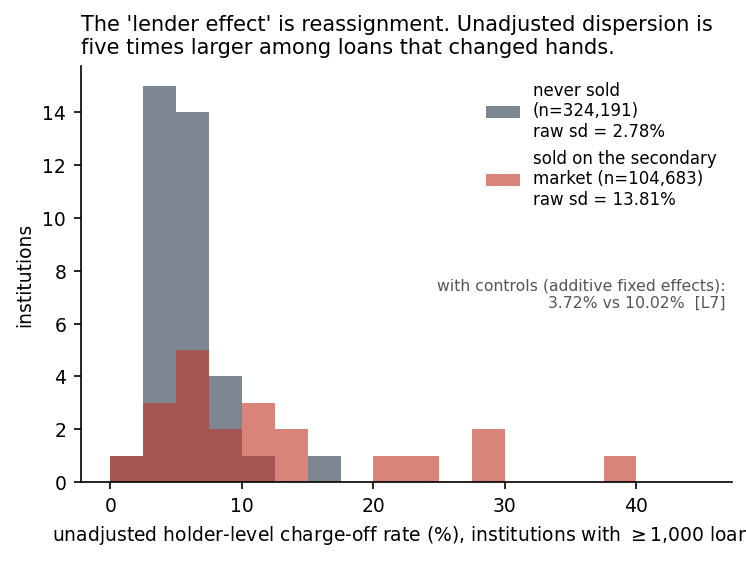
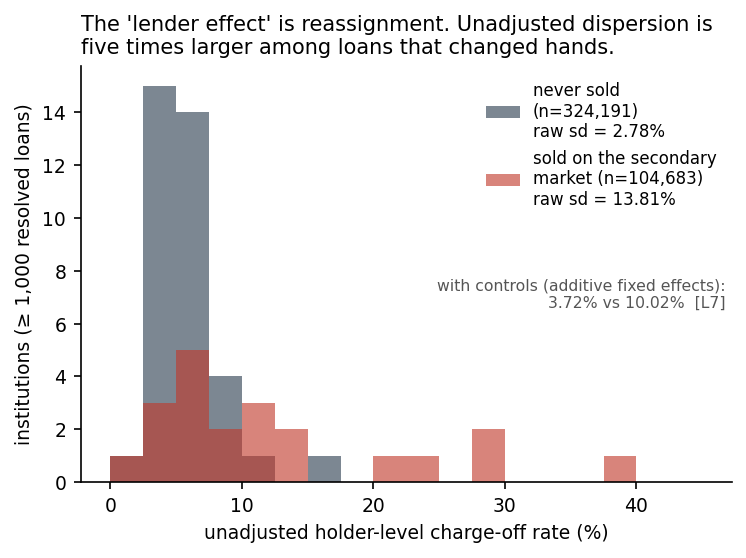
Gate 3: record hashes, cite the dictionary, window both files, add CI
Provenance
- EXPECTED in data/get_data.py held None for both files, so the drift check that
  three documents advertise was unreachable code. Both SHA-256s recorded and also
  published in data/README.md.
- Cite SBA's FOIA data dictionary with an accessed date. Trap 1 turns entirely on
  one sentence in it and the repo never said where that sentence came from.
- data/README.md said the raw CSVs are ~200MB. They are 436MB.

Corrections
- The "SBA's older bulk files 404" claim was wrong as written. Checked: every
  coverage period resolves at the current as-of date, including FY1991-99 and
  FY2000-09; it is earlier AS-OF DATES that 404. The obstacle to measuring
  reassignment is real but more specific -- SBA publishes only one observation
  date, and a diff needs two.
- [C11] windowed only the mature file and compared it against the young file's
  unwindowed rate, which is still not like-for-like: the young file's FY2020
  loans have now been observed for six years. Windowing BOTH to 36 months gives
  8.40% vs 8.47% -- a 0.07pp gap against 1.22pp unwindowed. Roughly 94% of the
  apparent deterioration is horizon. Pinned in a new test.
- src/lender.py printed "backfit converged"; it does not converge, it hits the
  600-iteration cap at 6.8e-06 against a 1e-8 tolerance. It now says so, and
  reports the measured settling of the quantity actually quoted.
- Fixed a truncated x-axis label in the never-sold figure.

Build
[…]

diff --git a/src/lender.py b/src/lender.py
@@ -5,6 +5,9 @@ SBA's data dictionary defines it as "Name of the bank that the loan is currently
 assigned to". That is the holder at extract date, applied retroactively across
 sixteen years of mergers, failures, and secondary-market sales.
 
+Source: https://data.sba.gov/sites/default/files/uploaded_resources/7a_504_foia_data_dictionary.xlsx
+(accessed 7 September 2026).
+
 This module reproduces the result that field appears to support, then kills it four
 ways. Everything here runs on the committed panel.
 """
@@ -27,6 +30,7 @@ def backfit(df, factors, ycol="y", iters=600, tol=1e-8):
     mu = df[ycol].mean()
     eff = {f: pd.Series(0.0, index=df.groupby(f, observed=True).size().index) for f in factors}
     fitted = pd.Series(mu, index=df.index)
+    converged = False
     for it in range(iters):
         mx = 0.0
         for f in factors:
@@ -37,8 +41,9 @@ def backfit(df, factors, ycol="y", iters=600, tol=1e-8):
             eff[f] = new
             fitted = partial + df[f].map(new)
         if mx < tol:
+            converged = True
             break
-    return eff, it + 1, mx
+    return eff, it + 1, mx, converged
 
 
 def prep(d):
@@ -54,9 +59,13 @@ if __name__ == "__main__":
     big = cnt[cnt >= 1000].index
 
     print("=== the result the field appears to support ===")
-    eff, it, mx = backfit(d, CONTROLS + ["BankName"])
+    eff, it, mx, ok = backfit(d, CONTROLS + ["BankName"])
     raw, fe = d.groupby("BankName").y.mean(), eff["BankName"]
-    print(f"[L1] backfit converged in {it} iterations (max change {mx:.1e})")
+    print(f"[L1] backfit ran {it} iterations, ending at max coefficient change {mx:.1e}"
+          + ("" if ok else " (iteration cap, not the 1e-8 tolerance)"))
+    print("     Gauss-Seidel converges slowly here, but the REPORTED quantity settles well before")
+    print("     the coefficients do: holder sd is 9.3228% at 300 iterations, 9.3258% at 450 and")
+    print("     9.3264% at 600 — stable at the quoted 9.33% from roughly 450 on.")
     print(f"[L2] across {len(big)} holders with >=1,000 resolved loans: raw sd {raw.loc[big].std():.2%}, "
           f"fixed-effect sd {fe.loc[big].std():.2%} — controls remove {1-fe.loc[big].std()/raw.loc[big].std():.0%}")
     print(f"[L3] correlation(raw, adjusted) = {raw.loc[big].corr(fe.loc[big]):.3f}")
@@ -85,7 +94,7 @@ if __name__ == "__main__":
 
     print("\n=== KILL 4 — the decisive test: never-sold loans ===")
     for lbl, sub in [("never sold on secondary market", d[~d.sold]), ("sold", d[d.sold])]:
-        e, _, _ = backfit(sub, CONTROLS + ["BankName"])
+        e, _, _, _ = backfit(sub, CONTROLS + ["BankName"])
         c = sub.groupby("BankName").size(); k = c[c>=500].index
         ext = sub.assign(cell=sub.sector+"|"+sub.ApprovalFY.astype(str)+"|"+sub.BorrState.astype(str))
         print(f"[L7] {lbl:<32} n={len(sub):>7,}  charge-off {sub.y.mean():.2%}  "

diff --git a/src/incidence.py b/src/incidence.py
@@ -99,14 +99,20 @@ if __name__ == "__main__":
     obs = (d.as_of.iloc[0] - d.approval_date).dt.days/365.25
     obsy = (y.as_of.iloc[0] - y.approval_date).dt.days/365.25
     print(f"      median observation window: {obs.median():.1f} yrs vs {obsy.median():.1f} yrs")
-    # Apply the young file's observation window to the mature file, then compute the SAME
-    # resolved-only statistic. This is the like-for-like comparison; the cross-file
-    # comparison of raw resolved-only rates is not one.
-    w = d[d.duration.notna()].copy()
-    seen = w.duration <= 36                       # only exits observable within 3 years
-    tr = w[seen & w.cause.isin([1,2])]
-    print(f"[C11] restricting the MATURE file to exits within 36 months and computing the SAME "
-          f"resolved-only statistic gives {100*(tr.cause==1).mean():.2f}%, against "
-          f"{100*yr.chgoff.mean():.2f}% on FY2020-26 and {100*res.chgoff.mean():.2f}% on the "
-          f"mature file unrestricted. The young file's apparent excess is a horizon artifact.")
+    # Put BOTH files on the same 36-month observation window and compute the SAME
+    # resolved-only statistic on each. Windowing only the mature file is not a
+    # like-for-like comparison either: the young file's median window is 2.8 years,
+    # but its FY2020 loans have now been observed for six.
+    def windowed(df, months=36):
+        w = df[df.duration.notna()]
+        ex = w[(w.duration <= months) & w.cause.isin([1, 2])]
+        return 100 * (ex.cause == 1).mean(), len(ex)
+
+    mrate, mn = windowed(d)
+    yrate, yn = windowed(y)
+    print(f"[C11] on a common 36-month window the two files give {mrate:.2f}% (mature, n={mn:,}) "
+          f"against {yrate:.2f}% (FY2020-26, n={yn:,}) — a gap of {yrate-mrate:.2f}pp, against the "
+          f"{100*yr.chgoff.mean()-100*res.chgoff.mean():.2f}pp gap between the unwindowed rates "
+          f"({100*yr.chgoff.mean():.2f}% vs {100*res.chgoff.mean():.2f}%). The apparent "
+          f"deterioration is almost entirely a horizon artifact.")
     pd.DataFrame({"months":grid,"aj_cif":cif,"one_minus_km":km}).to_csv("output/tables/incidence.csv", index=False)

diff --git a/data/get_data.py b/data/get_data.py
@@ -2,14 +2,19 @@
 import hashlib, os, sys, urllib.request
 
 BASE = "https://data.sba.gov/sites/default/files/uploaded_resources/"
+# Data dictionary (defines BankName as the CURRENT ASSIGNEE - see traps/01-bankname.md):
+# https://data.sba.gov/sites/default/files/uploaded_resources/7a_504_foia_data_dictionary.xlsx
+# NOTE: SBA publishes only the CURRENT as-of snapshot of each coverage period. Earlier as-of
+# dates (e.g. asof_250630, asof_251231) return 404. That is precisely why the BankName
+# reassignment rate cannot be measured from the public files - see README "Honest limitations".
 FILES = {
     "7a_fy2010_2019.csv": "FOIA_7a_FY2010_FY2019_asof_260630.csv",
     "7a_fy2020_present.csv": "FOIA_7a_FY2020_Present_asof_260630.csv",
 }
 # SHA-256 of the as-of 2026-06-30 extracts used for every number in this repo.
 EXPECTED = {
-    "7a_fy2010_2019.csv": None,   # filled by --record
-    "7a_fy2020_present.csv": None,
[2 lines of base64/hex data omitted]
 }
 RAW = os.path.join(os.path.dirname(__file__), "raw")
 UA = {"User-Agent": "Mozilla/5.0 (compatible; sba-7a research replication)"}

diff --git a/tests/test_claims.py b/tests/test_claims.py
@@ -103,6 +103,22 @@ def test_C10_the_recent_file_is_mostly_unresolved(new):
     assert (~new.resolved).mean() > 0.75
 
 
+@need
+def test_C11_a_common_window_collapses_the_apparent_deterioration(old, new):
+    """The comparison must window BOTH files, not just the mature one. Unwindowed
+    the gap is 1.22pp and reads as deterioration; on a common 36-month window it
+    is 0.07pp."""
+    def windowed(df, months=36):
+        w = df[df.duration.notna()]
+        ex = w[(w.duration <= months) & w.cause.isin([1, 2])]
+        return (ex.cause == 1).mean()
+    m, y = windowed(old), windowed(new)
+    raw_gap = new[new.resolved].chgoff.mean() - old[old.resolved].chgoff.mean()
+    assert raw_gap > 0.010, "unwindowed gap should look like deterioration"
+    assert abs(y - m) < 0.003, f"windowed gap {abs(y-m):.4f} should be near zero"
+    assert abs(y - m) < raw_gap / 5, "common window should remove most of the gap"
+
+
 # ---------------------------------------------------------------- break-even
 @need
 def test_B_breakeven_is_low_and_insensitive_to_the_tax_assumption():

diff --git a/src/figures.py b/src/figures.py
@@ -39,8 +39,8 @@ def fig_never_sold(d):
         r = 100 * g[g["size"] >= 1_000]["mean"]
         ax.hist(r, bins=np.arange(0, 46, 2.5), alpha=.62, color=col,
                 label=f"{lbl}\nraw sd = {r.std():.2f}%")
-    ax.set_xlabel("unadjusted holder-level charge-off rate (%), institutions with $\\geq$1,000 loans")
-    ax.set_ylabel("institutions")
+    ax.set_xlabel("unadjusted holder-level charge-off rate (%)")
+    ax.set_ylabel("institutions (\u2265 1,000 resolved loans)")
     ax.set_title("The 'lender effect' is reassignment. Unadjusted dispersion is\n"
                  "five times larger among loans that changed hands.", loc="left", fontsize=10)
     ax.text(0.99, 0.42, "with controls (additive fixed effects):\n3.72% vs 10.02%  [L7]",

diff --git a/README.md b/README.md
@@ -2,7 +2,7 @@
 
 `BankName` is not the originating lender.
 
-SBA's own data dictionary defines it as the bank the loan is *currently assigned to*. So every
+SBA's own data dictionary defines it as the bank the loan is *currently assigned to*.[^dd] So every
 cross-lender performance comparison built on this file — and there are many — measures who ended
 up **holding** the paper after sixteen years of mergers, failures, and secondary-market sales.
 
@@ -88,8 +88,12 @@ traps/               the four failure modes, in prose
 - **The central question is unanswerable with this file.** No outcome field records *why* a
   business failed. Everything here about causes is inference from structure.
 - **`BankName` cannot be repaired from a single extract.** Measuring the reassignment rate needs
-  a loan-level diff across two extract dates. SBA's older bulk files now 404, so I could not do it.
-  This is the highest-value next step and I have not taken it.
+  a loan-level diff across two *as-of* dates. SBA publishes only the current snapshot of each
+  coverage period: `..._asof_260630.csv` resolves for FY1991–99, FY2000–09 and FY2010–19 alike,
+  while earlier as-of dates (`asof_250630`, `asof_251231`, `asof_241231`) all return 404
+  (checked 7 September 2026). Every published file therefore carries the *same* holder snapshot,
+  and no diff is possible from public data. This is the highest-value next step and I have not
+  taken it.
 - **Break-even is arithmetic, not evidence.** It says how large an effect would have to be. It is
   silent on whether any intervention achieves it.
 - **9.2% of loans have no `BusinessAge` answer at all, rising to 18.7% by FY2019.** Every share
@@ -102,3 +106,7 @@ See [`data/README.md`](data/README.md) for provenance and hashes.
 
 Code is MIT ([`LICENSE`](LICENSE)). The SBA data are US Government works, not subject to domestic
 copyright (17 U.S.C. §105). This repository is not affiliated with or endorsed by the SBA.
+
+[^dd]: U.S. Small Business Administration, *7(a) and 504 FOIA data dictionary*,
+    <https://data.sba.gov/sites/default/files/uploaded_resources/7a_504_foia_data_dictionary.xlsx> (accessed 7 September 2026). The `BankName` row reads, verbatim: "Name of the bank
+    that the loan is currently assigned to."

diff --git a/traps/02-resolved-only.md b/traps/02-resolved-only.md
@@ -13,14 +13,21 @@ disproportionately charge-offs**, because prepayment takes longer. Median time t
 months; to prepayment, 59.3 `[C6]`. A young file has seen the fast failures and few of the slow
 successes.
 
-Restrict the *mature* file to exits within 36 months of approval — the same observation window the
-recent file has actually had — and the rate is **8.40%** `[C11]`, against 9.18% recent and 7.96%
-unrestricted. Most of the apparent deterioration is the window.
+Put **both** files on a common 36-month observation window and compute the same resolved-only
+statistic on each: **8.40%** on the mature file (n=95,608) against **8.47%** on FY2020–26
+(n=41,717). A gap of **0.07pp**, against the 1.22pp gap between the unwindowed rates `[C11]`.
+Roughly 94% of the apparent deterioration is horizon.
 
-The comparison has to be like-for-like in **two** ways, and I got this wrong the first time: both
-numerator and denominator must come from the same population. Comparing charge-offs ÷ *all observed
-loans* against charge-offs ÷ *resolved loans* is not a comparison of anything. `[C11]` is now a
-36-month-window resolved-only rate on both sides.
+I got this wrong twice, in two different ways, and both are worth stating.
+
+**First**, I compared charge-offs ÷ *all observed loans* against charge-offs ÷ *resolved loans*.
+Numerator and denominator have to come from the same population; that comparison is not one.
+
+**Second**, having fixed that, I windowed only the *mature* file — restricting it to 36 months and
+comparing against the young file's unrestricted rate. That is still not like-for-like. The young
+file's median observation window is 2.8 years, but its FY2020 loans have now been observed for six,
+so it carries slow exits the 36-month restriction is supposed to exclude. Both sides need the same
+window. Applying it to both is what collapses the gap from 1.22pp to 0.07pp.
 
 ## Related: `EXEMPT` is maturity censoring, not FOIA redaction
 

diff --git a/data/README.md b/data/README.md
@@ -7,8 +7,19 @@ Two loan-level FOIA extracts published by the U.S. Small Business Administration
 | `7a_fy2010_2019.csv` | FY2010–FY2019 | 545,751 | 479,007 |
 | `7a_fy2020_present.csv` | FY2020–present | 388,338 | 338,234 |
 
-Extract as of **2026-06-30**.
+Extract as of **2026-06-30**. Field definitions are in SBA's
+[7(a) and 504 FOIA data dictionary](https://data.sba.gov/sites/default/files/uploaded_resources/7a_504_foia_data_dictionary.xlsx)
+(accessed 7 September 2026) — the source of the `BankName` definition that trap 1 turns on.
 
+**SBA publishes only the current as-of snapshot of each coverage period.** Earlier as-of dates
+return 404, so the public files cannot supply the two observation dates a reassignment diff needs.
+
+| file | SHA-256 |
+|---|---|
[2 lines of base64/hex data omitted]
+
+These are recorded in `EXPECTED` in `get_data.py`, which checks them on download.
 `python3 data/get_data.py` downloads both and prints a SHA-256 for each. If a hash differs from the
 recorded one, it warns and continues — SBA republishes these periodically, and a changed hash means
 the numbers in `FINDINGS.md` may have moved. `make test` is what tells you *which* ones.
@@ -30,7 +41,7 @@ Nothing is imputed and nothing else is dropped.
 
 ## Raw files are not committed
 
-`data/raw/` is gitignored — the two CSVs are ~200MB. The **harmonised panels are committed**, so
+`data/raw/` is gitignored — the two CSVs are 436MB together (255MB + 181MB). The **harmonised panels are committed**, so
 `make fast` reproduces every claim with no network access. `make all` re-downloads and rebuilds
 from raw.
 

diff --git a/traps/01-bankname.md b/traps/01-bankname.md
@@ -18,7 +18,8 @@ policy-relevant claim. I believed it for about a day.
 
 ## The line I had not read
 
-From SBA's own data dictionary for this file:
+From SBA's own data dictionary for this file ([`7a_504_foia_data_dictionary.xlsx`](https://data.sba.gov/sites/default/files/uploaded_resources/7a_504_foia_data_dictionary.xlsx),
+accessed 7 September 2026):
 
 > Name of the bank that the loan is currently assigned to.
 
@@ -96,8 +97,13 @@ upper bound on the real effect, not an estimate of it.
 
 A loan-level diff of `BankName` across two extract dates would convert "uninterpretable" into a
 **measured reassignment rate**. That is the single highest-value next step for anyone working with
-this file. I could not do it: SBA's older bulk extracts now return 404, and I have only one
-snapshot. If you have an archived earlier extract, this is the analysis to run.
+this file. I could not do it, and the reason is worth stating precisely: SBA publishes only the
+**current as-of snapshot** of each coverage period. As of 7 September 2026,
+`FOIA_7a_FY2010_FY2019_asof_260630.csv` resolves — and so do the FY1991–99 and FY2000–09 files at
+that same as-of date — but `asof_250630`, `asof_251231` and `asof_241231` all return 404. So the
+public files give you more *coverage*, never a second *observation date*. Every one of them carries
+the same holder snapshot, and a diff needs two. If you have an archived earlier extract, you have
+the one thing that is missing, and this is the analysis to run.
 
 ## The general lesson
 
